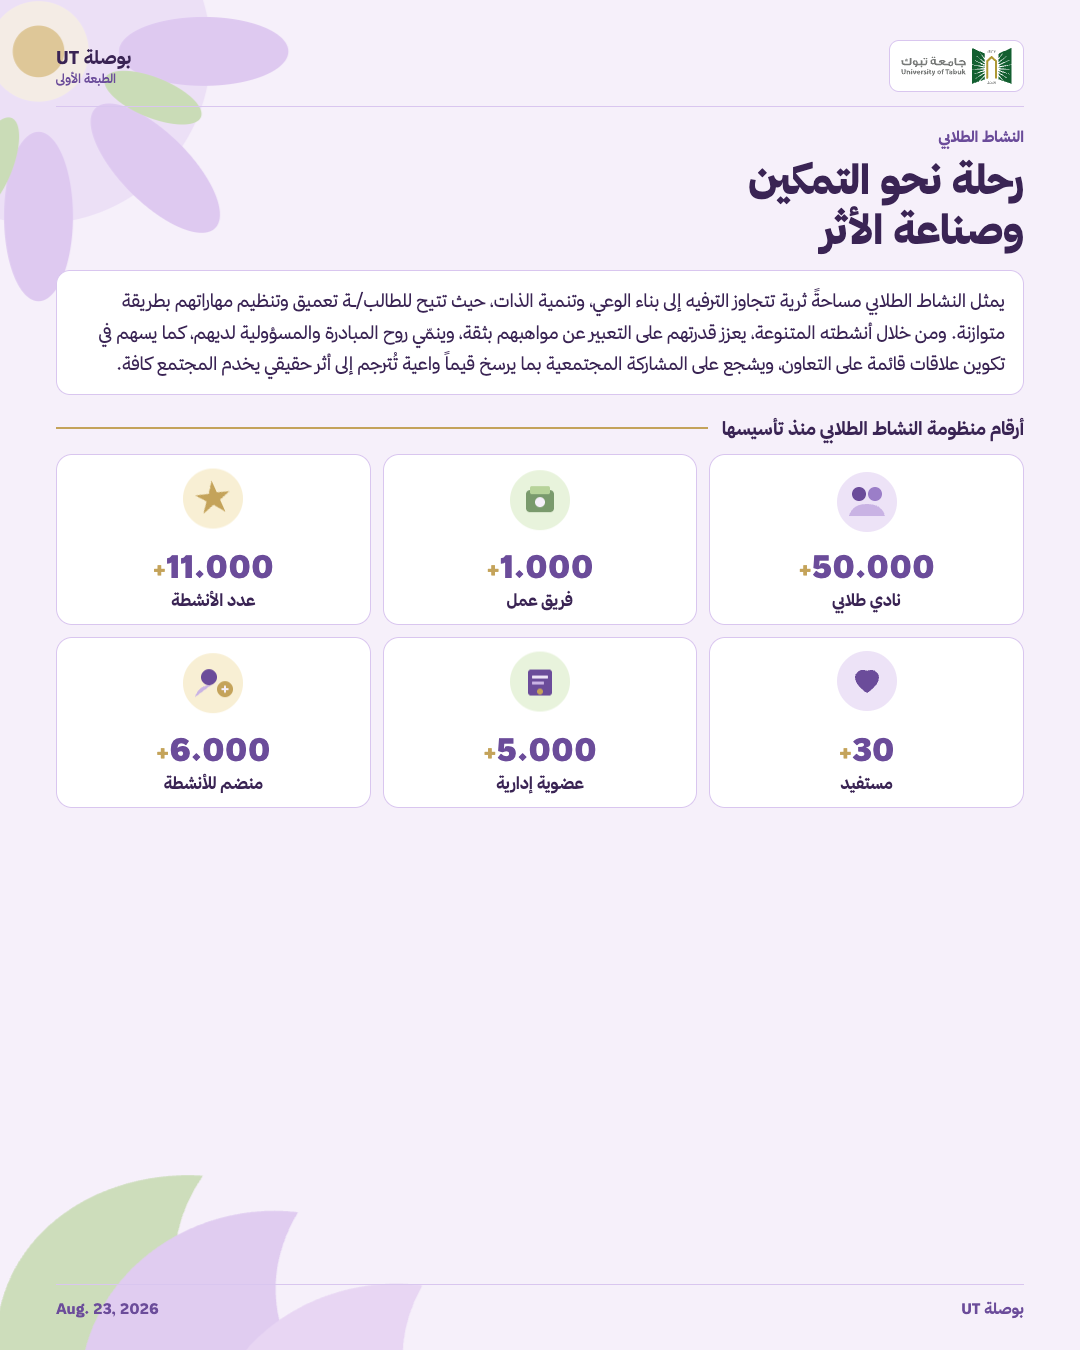
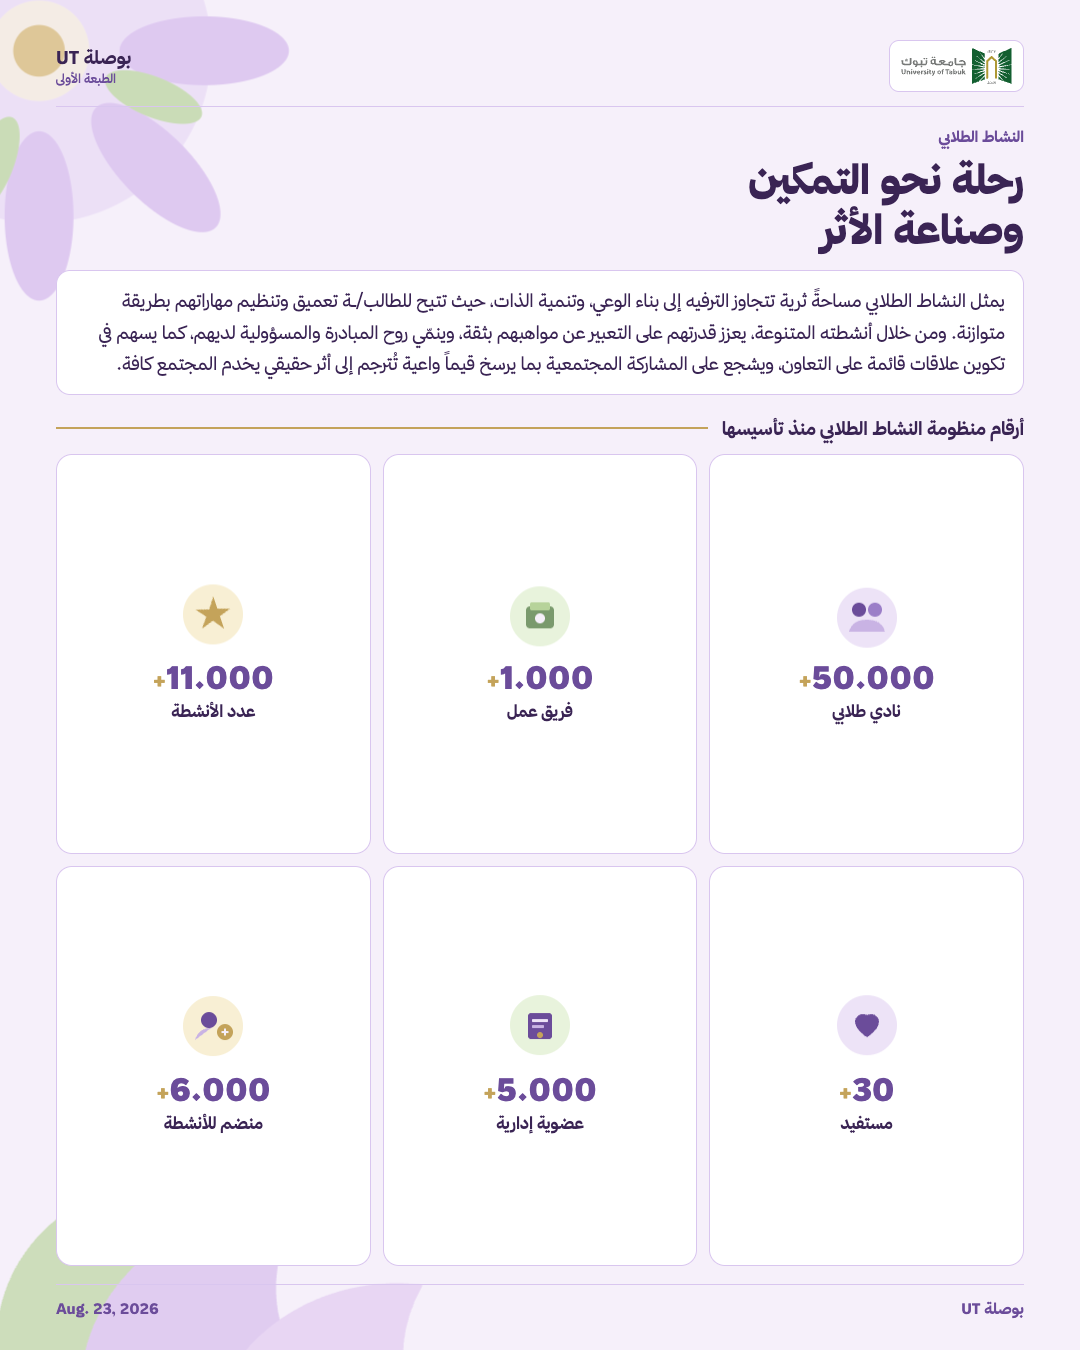
Update styles in page2.html for improved layout and visual consistency. Added flex properties to the .stat class for better alignment and adjusted padding for a more polished appearance. Updated poster image to a new version.

diff --git a/poster/page2.html b/poster/page2.html
@@ -125,14 +125,17 @@
       grid-template-columns: 1fr 1fr 1fr;
       gap: 12px;
       flex: 1;
-      align-content: start;
     }
 
     .stat {
+      display: flex;
+      flex-direction: column;
+      align-items: center;
+      justify-content: center;
       background: #fff;
       border: 1.5px solid #D9C6EF;
       border-radius: 16px;
-      padding: 16px 12px 14px;
+      padding: 14px 12px;
       text-align: center;
       animation: rise 0.65s ease both;
     }
